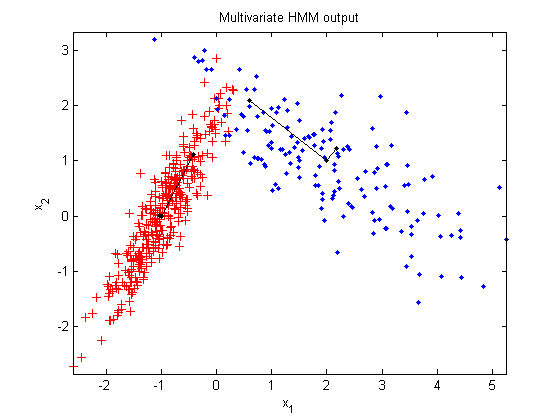
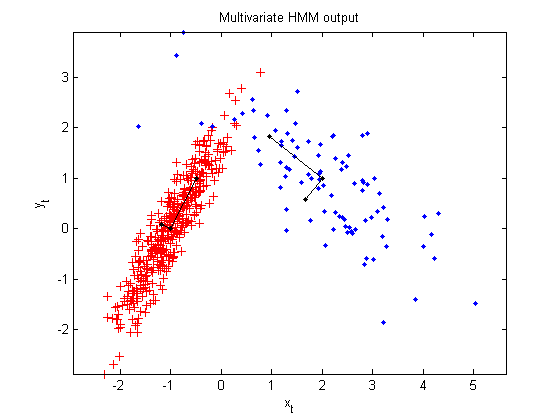
Minor fixes to A.1.2.7

diff --git a/Assignment1/test_A_1_2_7.m b/Assignment1/test_A_1_2_7.m
@@ -28,10 +28,10 @@ function test_A_1_2_7()
     % standard deviations
     e_1 = normc(e_1);
     e_2 = normc(e_2);
-    pc_1_1 = mu_1 + lambda_1(1, 1)*e_1(:, 1);
-    pc_1_2 = mu_1 + lambda_1(2, 2)*e_1(:, 2);
-    pc_2_1 = mu_2 + lambda_2(1, 1)*e_2(:, 1);
-    pc_2_2 = mu_2 + lambda_2(2, 2)*e_2(:, 2);
+    pc_1_1 = mu_1 + sqrt(abs(lambda_1(1, 1)))*e_1(:, 1);
+    pc_1_2 = mu_1 + sqrt(abs(lambda_1(2, 2)))*e_1(:, 2);
+    pc_2_1 = mu_2 + sqrt(abs(lambda_2(1, 1)))*e_2(:, 1);
+    pc_2_2 = mu_2 + sqrt(abs(lambda_2(2, 2)))*e_2(:, 2);
     % Plot the PCs
     plot([mu_1(1) pc_1_1(1)], [mu_1(2) pc_1_1(2)], '.-k');
     plot([mu_1(1) pc_1_2(1)], [mu_1(2) pc_1_2(2)], '.-k');
@@ -40,8 +40,8 @@ function test_A_1_2_7()
     
     axis equal;
     title('Multivariate HMM output');
-    xlabel('x_1');
-    ylabel('x_2');
+    xlabel('x_t');
+    ylabel('y_t');
     
     hold off
     
